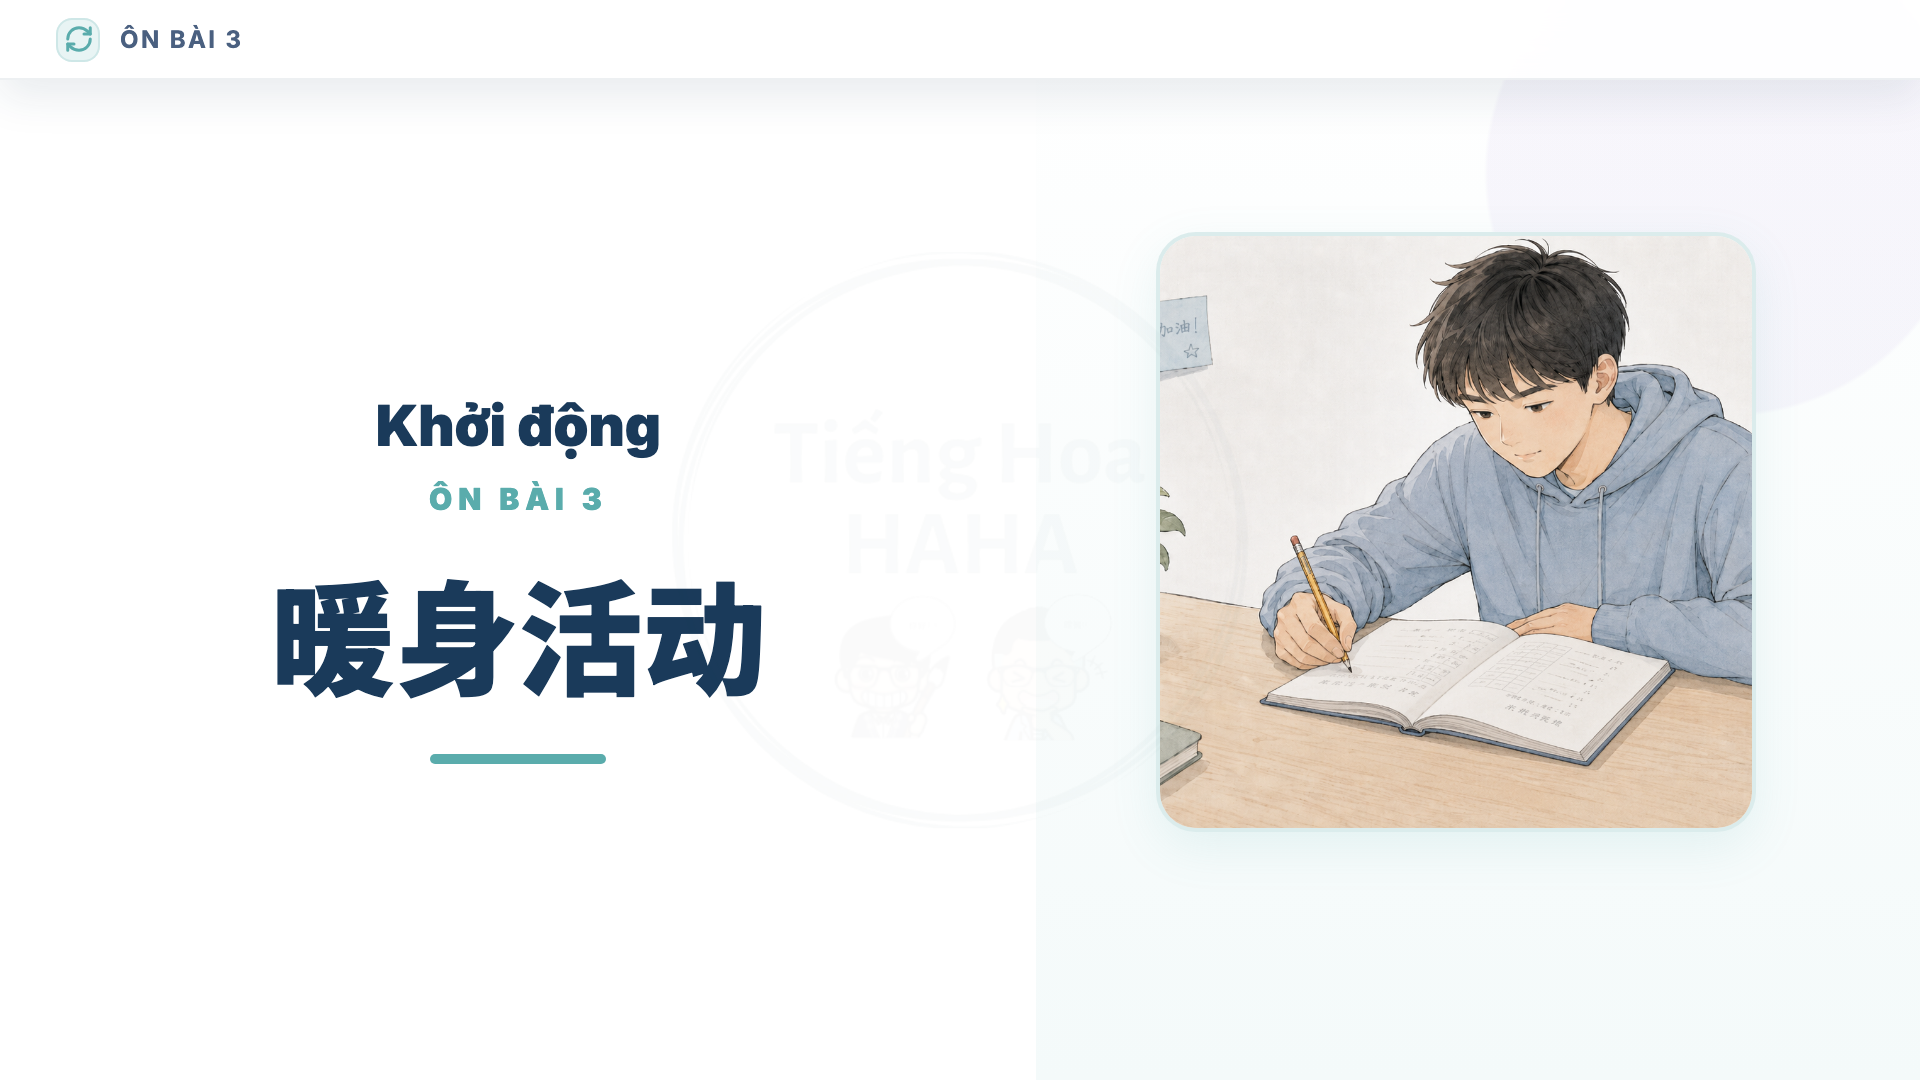
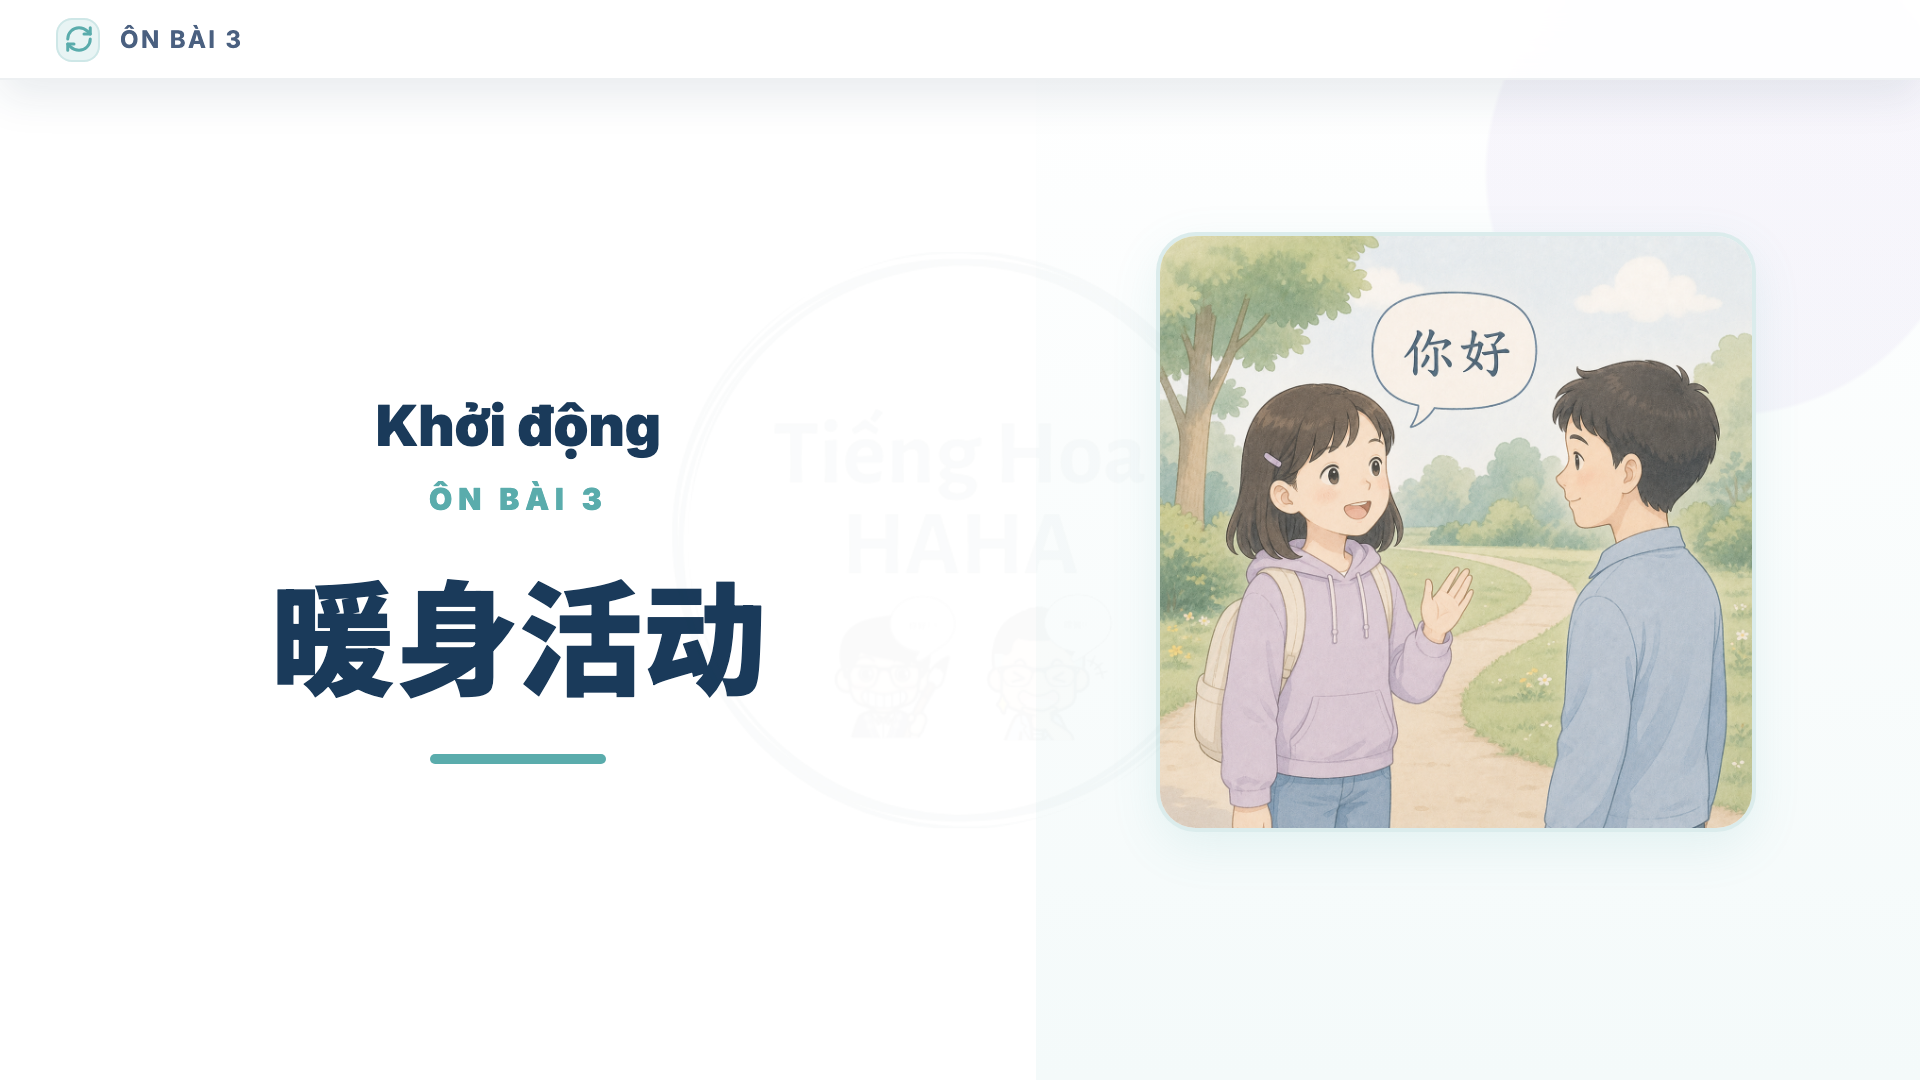
updated lesson 4

Changed region(s): [[0.5938, 0.2139, 0.9375, 0.7639]]

diff --git a/output/pinyin/pinyin-04/slides/03-divider-review.html b/output/pinyin/pinyin-04/slides/03-divider-review.html
@@ -28,4 +28,4 @@
 .listen-head{display:flex;align-items:center;justify-content:center;margin-bottom:16px;text-align:center}.listen-title{font-size:34px;font-weight:900;color:#1A3A5A;line-height:1.14}.final-bank{width:760px;margin:10px auto 22px;background:rgba(255,255,255,.86);border:1px solid rgba(90,172,172,.16);border-radius:16px;text-align:center;padding:10px 18px;box-shadow:0 6px 20px rgba(90,172,172,.08)}.final-bank-title{font-size:18px;color:#5F7088;font-weight:800;margin-bottom:6px}.finals{display:flex;justify-content:space-around;font-size:25px;font-weight:900;color:#3B7DB4}.listen-grid{width:760px;margin:0 auto;display:grid;grid-template-columns:repeat(3,1fr);column-gap:58px;row-gap:24px}.listen-item{font-size:28px;color:#202530;line-height:1.1;white-space:nowrap}.listen-no{font-size:26px;margin-right:8px;color:#202530}.blank{display:inline-block;width:52px;border-bottom:3px solid #202530;transform:translateY(-3px);margin:0 4px}.blank.short{width:44px}.initial-cue{display:inline-block;min-width:48px;text-align:center;font-weight:900;color:#1A3A5A;margin-right:4px}.answer-red{color:#F05A62;font-weight:950}.tone-cued{position:relative;display:inline-block;line-height:1;margin:0 1px;padding-top:12px;vertical-align:baseline}.tone-cue{position:absolute;top:0;left:50%;transform:translateX(-50%);font-size:12px;line-height:1;color:#8A9AB0;font-weight:900;white-space:nowrap}.tone-letter{line-height:1}
 
 .rule-center{position:absolute;left:60px;right:60px;top:92px;bottom:54px;display:flex;flex-direction:column;align-items:center;justify-content:center}.rule-center .title-xl{text-align:center;margin-bottom:28px}.rule-grid{width:100%;display:grid;grid-template-columns:repeat(3,1fr);gap:18px}.rule-card{height:154px;display:grid;grid-template-columns:1fr auto 1fr;align-items:center;justify-items:center;text-align:center;gap:10px}.rule-card .from,.rule-card .to{font-size:46px;line-height:1;font-weight:950;color:#1A3A5A}.rule-card .from{color:#7C6BC8}.rule-card .arrow{font-size:34px;font-weight:950;color:#5AACAC}.closing{position:relative;overflow:hidden;background:linear-gradient(112deg,#F5FAF4 0%,#FFFFFF 46%,#DFF1E8 100%)}.closing:before{content:"";position:absolute;left:34px;top:24px;width:300px;height:246px;border-radius:54% 46% 44% 56%;background:rgba(149,212,187,.23);z-index:0}.closing:after{content:"";position:absolute;right:-54px;bottom:-108px;width:372px;height:294px;border-radius:55% 45% 50% 50%;background:rgba(149,212,187,.20);z-index:0}.closing-card-ref{position:absolute;left:96px;right:84px;top:88px;bottom:62px;border-radius:34px;background:rgba(255,255,255,.96);box-shadow:0 18px 34px rgba(36,50,74,.18);z-index:1;display:flex;flex-direction:column;align-items:center;justify-content:center;text-align:center;padding-left:164px}.closing-door{position:absolute;left:-36px;top:-64px;width:290px;height:266px;object-fit:contain;z-index:2;filter:drop-shadow(0 6px 10px rgba(36,50,74,.10))}.closing-zh{font-family:'Noto Sans SC';font-size:84pt;line-height:.92;font-weight:900;color:#143C68;letter-spacing:0}.closing-sub{margin-top:30px;font-size:29pt;line-height:1.1;font-weight:900;color:#7BC6A7}.closing-next{margin-top:22px;font-size:17pt;line-height:1.25;font-weight:700;color:#6B6F76}
-</style></head><body><div class="slide"><div class="menu-bar"><span class="menu-icon"><i data-lucide="refresh-cw"></i></span><span class="section-label">ÔN BÀI 3</span></div><div class="divider-left"><div class="divider-super">Khởi động</div><div class="divider-kicker">ÔN BÀI 3</div><div class="divider-zh">暖身活动</div><div class="divider-line"></div></div><div class="divider-photo"><img src="assets/photos/divider-review.png" alt=""></div></div><script src="assets/slide-base.js"></script></body></html>
+</style></head><body><div class="slide"><div class="menu-bar"><span class="menu-icon"><i data-lucide="refresh-cw"></i></span><span class="section-label">ÔN BÀI 3</span></div><div class="divider-left"><div class="divider-super">Khởi động</div><div class="divider-kicker">ÔN BÀI 3</div><div class="divider-zh">暖身活动</div><div class="divider-line"></div></div><div class="divider-photo"><img src="assets/photos/divider-review-nihao.png" alt=""></div></div><script src="assets/slide-base.js"></script></body></html>
